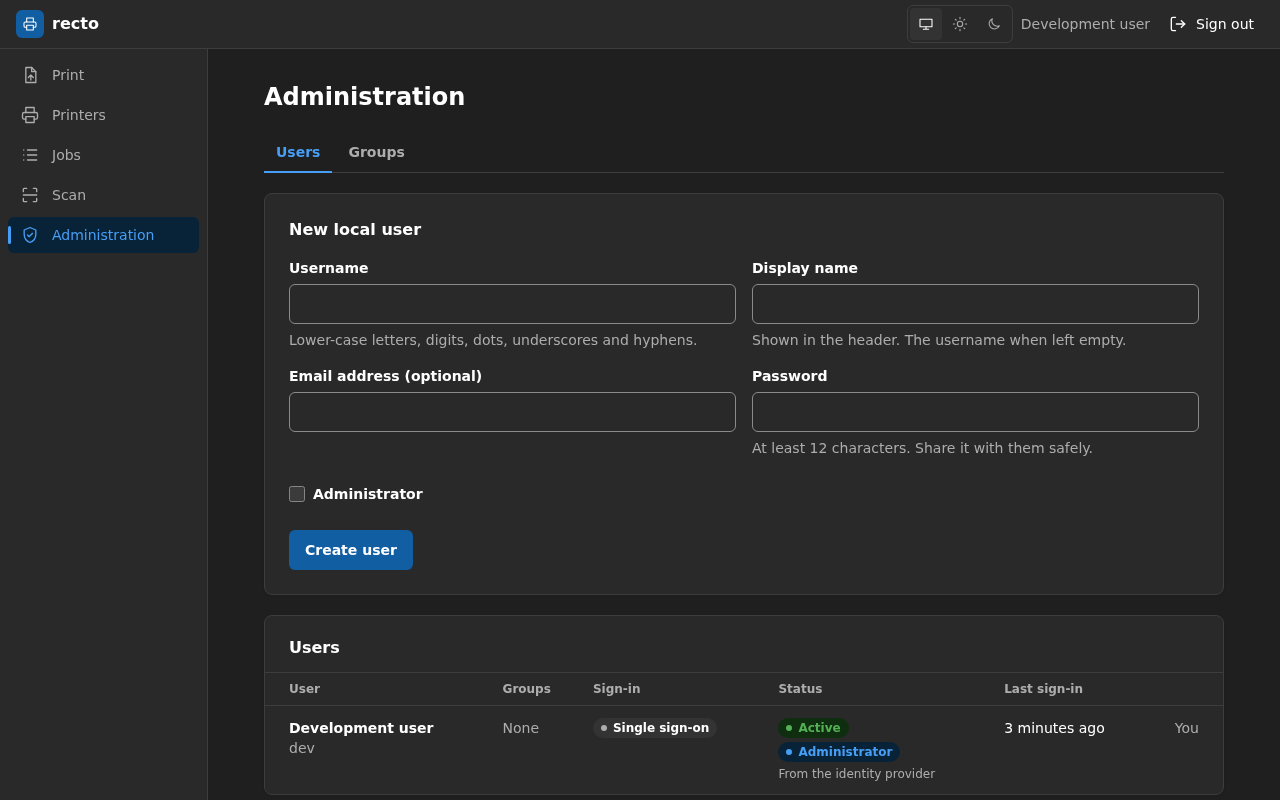
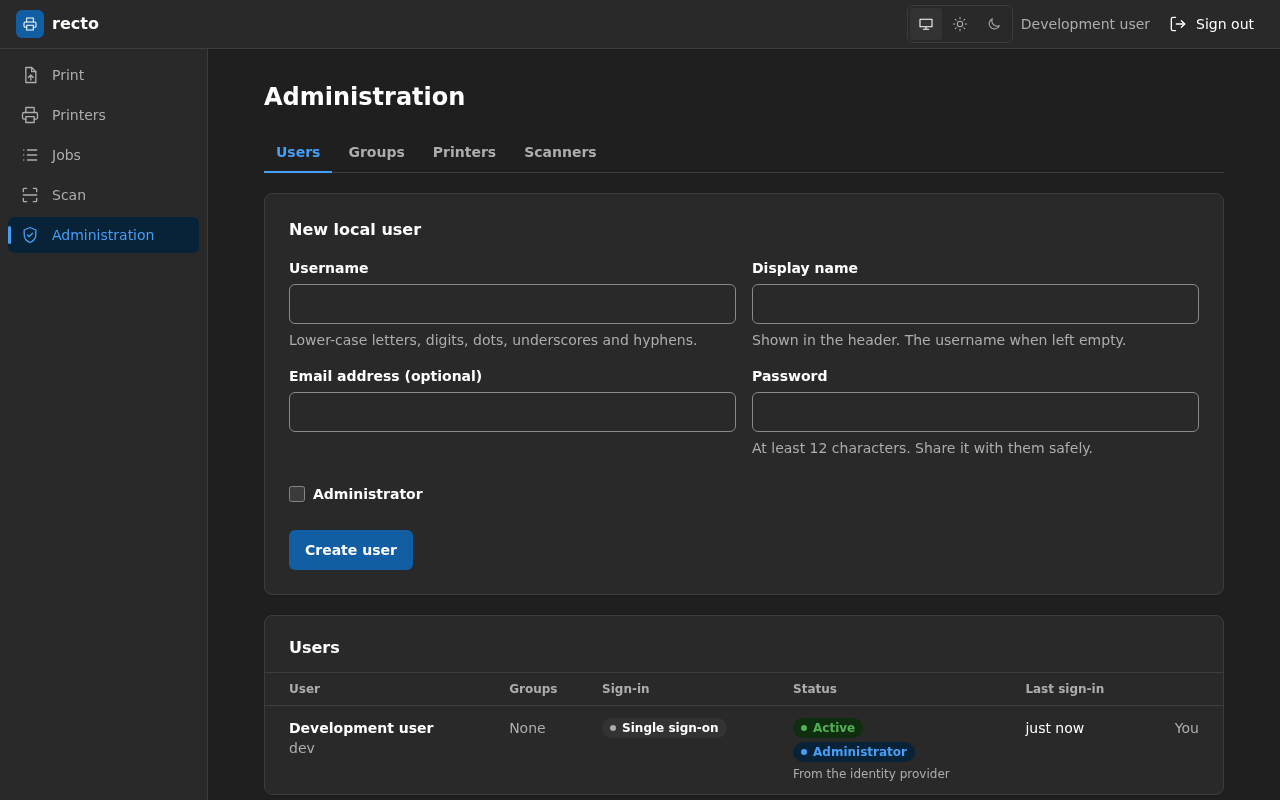
docs: describe device limits correctly and fix the proxy body limits
Several pages still said that every signed-in user can use every
device and that groups decide nothing. The accounts reference, the
introduction, the sign-in and security explanations now say that an
administrator can limit devices to groups, that jobs can be private,
and that these limits apply in recto only: anyone who reaches CUPS or
saned directly bypasses them. The guide to limiting devices adds that
local accounts belong to no group, that the Jobs page still lists every
job under RECTO_JOB_VISIBILITY=all, and that a CUPS class needs its own
rule. The endpoints reference gives the cancel and access form answers,
and the logs reference lists the new events.

recto accepts a body up to RECTO_MAX_UPLOAD_SIZE plus 64 KiB, so the
proxy examples now set their limit a little above it: 51m for nginx,
51MiB for Caddy and 53477376 bytes for Apache, whose default is 1 GiB
since 2.4.54. Traefik's entry points stop reading a request after 60
seconds, which can cut a slow upload, so the example raises that to 600
seconds. Cloudflare Tunnel appends to a client-sent X-Forwarded-For, so
the guide says to leave RECTO_TRUST_FORWARDED_HEADERS off behind it.

The Users page screenshots show the four administration tabs.

diff --git a/docs/src/how-to/reverse-proxy.md b/docs/src/how-to/reverse-proxy.md
@@ -23,7 +23,7 @@ recto must be at the root of its address: `https://recto.example.org` works,
   against them and refuses the request when they do not match `RECTO_PUBLIC_URL`.
 - Wait at least 600 seconds for a response, so long scans finish (see
   [Let long scans finish](#let-long-scans-finish)).
-- Accept request bodies up to `RECTO_MAX_UPLOAD_SIZE`, 50 MiB by default (see
+- Accept request bodies a little above `RECTO_MAX_UPLOAD_SIZE`, 50 MiB by default (see
   [Let uploads through](#let-uploads-through)).
 - Cache nothing. Pages are per user, and `/sw.js` and `/manifest.webmanifest` are sent with
   `Cache-Control: no-cache` so that browsers see a new version at once. This includes a CDN in
@@ -57,10 +57,19 @@ finished.** The scanner may still finish, but the result is lost.
 
 ## Let uploads through
 
-Files up to `RECTO_MAX_UPLOAD_SIZE` (50 MiB by default) are sent to recto in one request. nginx
-refuses bodies over 1 MiB by default: set `client_max_body_size` to at least that size. Apache
-has no limit unless `LimitRequestBody` is set. Cloudflare accepts 100 MB on its free and Pro
-plans.
+Files up to `RECTO_MAX_UPLOAD_SIZE` (50 MiB by default) are sent to recto in one request, along
+with the form's other fields. recto accepts a body up to that size plus 64 KiB, so set the
+proxy's limit a little above it, 51 MiB for the default (the examples do):
+
+- **nginx:** refuses bodies over 1 MiB by default: `client_max_body_size 51m;`.
+- **Apache:** limits bodies to 1 GiB by default since 2.4.54 (none before): `LimitRequestBody
+  53477376`.
+- **Caddy:** no limit by default; the example sets `max_size 51MiB`.
+- **HAProxy:** no limit by default.
+- **Traefik:** no limit by default, but its entry points stop reading a request after 60
+  seconds, which can cut a large upload on a slow connection: the example raises
+  `respondingTimeouts.readTimeout` to 600 seconds.
+- **Cloudflare:** accepts 100 MB on its free and Pro plans.
 
 ## Count sign-in attempts per person
 
@@ -86,6 +95,9 @@ client can send its own header with a new address at each attempt, and never be 
 - **Caddy:** replaces it by default.
 - **Traefik:** replaces it by default, unless `forwardedHeaders.trustedIPs` or `insecure` is set
   on the entry point.
+- **Cloudflare Tunnel:** appends the client's address to any `X-Forwarded-For` the client sent,
+  so a client can still pick the address recto reads. Leave `RECTO_TRUST_FORWARDED_HEADERS`
+  off behind it.
 
 Leave the setting off when recto is reachable without the proxy, such as on its published port:
 anyone could then send the header.
@@ -96,7 +108,7 @@ File: `examples/proxy/nginx/recto.conf`. Put it in `/etc/nginx/conf.d/`, get a c
 `certbot certonly --nginx -d recto.example.org`, then run `nginx -t` and reload.
 
 ```nginx
-client_max_body_size 50m;
+client_max_body_size 51m;
 proxy_request_buffering off;
 
 location / {
@@ -121,7 +133,7 @@ by itself.
 ```text
 recto.example.org {
 	request_body {
-		max_size 50MB
+		max_size 51MiB
 	}
 	reverse_proxy recto:8080 {
 		flush_interval -1
@@ -152,7 +164,9 @@ traefik.http.services.recto.loadbalancer.server.port: "8080"
 
 The override removes recto's published port (`ports: !reset []`, which needs Docker Compose 2.24
 or later), so recto is reachable only through Traefik, and it sets
-`RECTO_TRUST_FORWARDED_HEADERS`.
+`RECTO_TRUST_FORWARDED_HEADERS`. It also gives the `websecure` entry point 600 seconds to read a
+request (`--entrypoints.websecure.transport.respondingTimeouts.readTimeout=600s`), so a large
+upload on a slow connection is not cut after the default 60.
 
 ## Apache
 
@@ -160,7 +174,7 @@ File: `examples/proxy/apache/recto.conf`. Enable the modules with
 `a2enmod proxy proxy_http ssl headers rewrite`, then check with `apachectl -t`.
 
 ```apache
-LimitRequestBody 52428800
+LimitRequestBody 53477376
 ProxyPreserveHost On
 RequestHeader unset X-Forwarded-For
 RequestHeader set X-Forwarded-Proto "https"

diff --git a/docs/src/reference/endpoints.md b/docs/src/reference/endpoints.md
@@ -11,7 +11,7 @@ instead. A single sign-on user without the required claim, or disabled, is sent 
 | Path | Page |
 | --- | --- |
 | `/` | Print: the print form and the chosen printer's status. |
-| `/printers` | Printers: every printer with its state and supplies. |
+| `/printers` | Printers: every printer the user may use, with its state and supplies. |
 | `/jobs` | Jobs: the print queue, with Cancel buttons. |
 | `/scan` | Scan: scanners, options, preview and results. Needs JavaScript. |
 | `/account` | Account: change your password. Only for users with a password, and with local accounts on. |
@@ -34,7 +34,7 @@ These work without JavaScript and accept only requests from recto's own pages (s
 | Method and path | Does |
 | --- | --- |
 | `POST /print` | Sends the uploaded file to a printer, then redirects to `/jobs`. |
-| `POST /jobs/{id}/cancel` | Cancels a job, then redirects to `/jobs`. |
+| `POST /jobs/{id}/cancel` | Cancels a job, then redirects to `/jobs`. With `RECTO_JOB_VISIBILITY=own`, a job the user may not see redirects to `/jobs?error=job_not_found`, as a missing one does. |
 | `GET /scan/results/{id}` | The result of a scan, for the preview image. |
 | `GET /scan/results/{id}/download` | The scan as a file download. |
 | `POST /scan/results/{id}/save` | Saves the scan into `RECTO_SCAN_OUTPUT_DIR`. |
@@ -43,7 +43,7 @@ These work without JavaScript and accept only requests from recto's own pages (s
 | `POST /administration/users/{id}/administrator` | Grants or removes administration. |
 | `POST /administration/users/{id}/disabled` | Disables or enables a user. |
 | `POST /administration/users/{id}/password` | Sets a user's password. |
-| `POST /administration/printers/access` and `/administration/scanners/access` | Sets who may use a device. Fields: `device`, `access` (`everyone` or `groups`) and one `groups` field per group id; `groups` with none means administrators only. Redirects to the page with `?done=access`, or answers `400` with the page when the device is missing or a group is unknown. |
+| `POST /administration/printers/access` and `/administration/scanners/access` | Sets who may use a device. Fields: `device`, `access` (`everyone` or `groups`) and one `groups` field per group id; `groups` with none means administrators only. Redirects to the page with `?done=access`. Answers `400` with the page when `device` or `access` is missing or a group is unknown, and `503` when the database fails. |
 | `POST /administration/printers/forget` and `/administration/scanners/forget` | Drops the rule of a device that is gone. Field: `device`. Redirects with `?done=forgotten`. |
 
 The administration pages and their forms answer `404`, with the not-found page, to anyone but an

diff --git a/docs/src/reference/accounts.md b/docs/src/reference/accounts.md
@@ -3,7 +3,8 @@
 recto keeps its users in its [database](configuration.md#database). A user signs in with a
 **local account**, a username and a password, or through **single sign-on** with an OpenID
 Connect provider. Some users are **administrators**. Every signed-in user can use every printer
-and scanner; being an administrator only adds the administration pages.
+and scanner unless an administrator limits it to some [groups](#groups); administrators always
+can, and they also reach the administration pages.
 
 ## Local accounts
 
@@ -62,14 +63,19 @@ recto does not link them.
 
 ## Administrators
 
-Administrators reach the **Administration** pages, at `/administration/users` and
-`/administration/groups`, where they:
+Administrators reach the **Administration** pages, at `/administration/users`,
+`/administration/groups`, `/administration/printers` and `/administration/scanners`, where they:
 
 - create local accounts, administrators or not;
 - set a new password for another user who has one;
 - disable and enable other users;
 - make other users administrators, or remove their administration;
-- see the groups and their members.
+- see the groups and their members;
+- limit printers and scanners to groups (see
+  [Limit printers and scanners to groups](../how-to/restrict-access.md#limit-printers-and-scanners-to-groups)).
+
+Administrators can use every printer and scanner, whatever its rule. With private jobs
+(`RECTO_JOB_VISIBILITY=own`), they still see and cancel every job.
 
 They cannot do any of this to their own account, so the last administrator cannot lock everyone
 out from the page. For everyone else, the administration pages answer as if they did not exist.
@@ -109,9 +115,12 @@ per key. The user's memberships are replaced by the groups read, and groups seen
 time are created. Groups are never deleted, even without members.
 
 Groups are read-only in recto. The Users page lists each user's groups, and the Groups page each
-group's members. They do not change what anyone may do in recto. If the UserInfo request
-fails, memberships are left as they are; with a provider without a UserInfo endpoint, a groups
-claim missing from the token means no groups.
+group's members. Groups decide who may use a printer or a scanner that an administrator limited
+to some of them (see
+[Limit printers and scanners to groups](../how-to/restrict-access.md#limit-printers-and-scanners-to-groups)).
+Local accounts belong to no group. If the UserInfo request fails, memberships are left as they
+are; with a provider without a UserInfo endpoint, a groups claim missing from the token means no
+groups.
 
 ## Disabled users
 

diff --git a/docs/src/explanation/security.md b/docs/src/explanation/security.md
@@ -7,14 +7,19 @@ against, and how.
 
 recto is built for a household, or a small team, that trusts itself:
 
-- **Everyone signed in is equal for printing and scanning.** Anyone who passes sign-in, and the
-  required claim when one is set, can use every printer and scanner, and see and cancel every
-  print job. With `RECTO_JOB_VISIBILITY=own`, jobs are private: people see and cancel only
-  their own, and administrators see all (see
-  [Keep jobs private](../how-to/restrict-access.md#keep-jobs-private)).
-- **Administrators manage accounts, nothing more.** They create local accounts, set passwords,
-  disable users and appoint other administrators. They cannot read passwords, and they cannot
-  act on their own account from the web page.
+- **Everyone signed in is equal for printing and scanning, by default.** Anyone who passes
+  sign-in, and the required claim when one is set, can use every printer and scanner, and see
+  and cancel every print job. An administrator can limit a device to some groups, which come
+  from the provider's groups claim (see
+  [Limit printers and scanners to groups](../how-to/restrict-access.md#limit-printers-and-scanners-to-groups)).
+  With `RECTO_JOB_VISIBILITY=own`, jobs are private: people see and cancel only their own, and
+  administrators see all (see [Keep jobs private](../how-to/restrict-access.md#keep-jobs-private)).
+- **These limits apply inside recto only.** Anyone who reaches CUPS or `saned` directly, from
+  your network, bypasses them: keep those services off networks you do not trust.
+- **Administrators manage accounts and device rules.** They create local accounts, set
+  passwords, disable users, appoint other administrators and limit devices to groups. They can
+  use every device and see every job. They cannot read passwords, and they cannot act on their
+  own account from the web page.
 - **Scans are private.** A scan result can only be reached by the person who made it, and only for
   an hour. Scans saved to a folder belong to that folder's readers.
 - **Whoever runs the server is above all of them.** The command line and the database give full

diff --git a/docs/src/how-to/restrict-access.md b/docs/src/how-to/restrict-access.md
@@ -100,7 +100,8 @@ Anyone who reaches CUPS directly still sees every job there: this setting limits
 By default everyone signed in can use every printer and scanner. To limit one to some groups:
 
 1. Send groups from your provider (see [Groups](../reference/accounts.md#groups)). Groups come
-   from the provider's groups claim at each sign-in, and recto cannot edit them.
+   from the provider's groups claim at each sign-in, and recto cannot edit them. Local accounts
+   belong to no group: they cannot use a limited device unless they are administrators.
 2. Open **Administration**, then **Printers** or **Scanners**.
 3. Press **Change who may use it** on the device's row, choose **These groups**, tick the groups
    and press **Save**.
@@ -112,6 +113,11 @@ Then:
 - Administrators can always use every device.
 - Choosing **These groups** with none ticked leaves the device to administrators only.
 - Choosing **Everyone** removes the rule.
+- With `RECTO_JOB_VISIBILITY=all`, the Jobs page still lists the jobs of a printer someone
+  cannot use: the limit is on printing, not on seeing the queue.
+- A CUPS class is a device of its own. A class that holds a limited printer needs its own rule,
+  or people print to the printer through the class.
+- Anyone who reaches CUPS or SANE directly is not limited: the rules apply in recto only.
 
 Rules are kept under the device's name. When a device is removed from CUPS or SANE, its rule
 stays, and the row is marked **Not found**: if the device comes back, it is limited again. Press

diff --git a/docs/src/reference/logs.md b/docs/src/reference/logs.md
@@ -29,6 +29,7 @@ only.
 | info | `session ended: the user is gone, disabled or signed out` | `user_id` |
 | info | `document sent to the printer` | `user`, `job` |
 | info | `job canceled` | `user`, `job` |
+| info | `device access changed`, `device access forgotten` | `by`, `device` |
 | info | `scan saved` | `user`, `path` |
 | info | `shutting down` | |
 | warn | `listing the scanners failed` | `error` |
@@ -40,8 +41,15 @@ only.
 | warn | `disabled user refused` | `subject` |
 | warn | `reading the user information failed` | `error` |
 | warn | `SANE could not start; scanning is off` | `error` |
+| warn | `listing the devices for the administration page failed` | `error` |
 | error | `starting the session failed` | `error` |
 | error | `password sign-in failed`, `changing a password failed`, `changing a user failed` | `error` |
+| error | `recording the job failed` | `error`, `job` |
+| error | `reading the job records failed` | `error`, and `job` when canceling |
+| error | `updating the job records failed` | `error` |
+| error | `reading the printer access rules failed`, `reading the scanner access rules failed` | `error` |
+| error | `saving the device access failed`, `forgetting the device access failed`, `loading the device rules failed` | `error` |
+| error | `listing the users failed`, `listing the groups failed` | `error` |
 
 Commands such as `recto create-administrator` write their messages as text.
 

diff --git a/docs/src/reference/configuration.md b/docs/src/reference/configuration.md
@@ -29,7 +29,7 @@ a default, such as `RECTO_LOCAL_ACCOUNTS`, must be left out rather than empty.
 | `RECTO_MAX_UPLOAD_SIZE` | `52428800` (50 MiB) | The largest file accepted for printing, in bytes. |
 | `RECTO_LISTEN_ADDRESS` | `0.0.0.0:8080` | The address and port recto listens on. |
 | `RECTO_SITE_ROOT` | `/app/site` | The folder of the built interface. The image sets it. |
-| `RECTO_JOB_VISIBILITY` | `all` | `all` shows every print job to everyone. `own` shows people only the jobs they submitted through recto, and administrators every job: see [Restrict who can use recto](../how-to/restrict-access.md#keep-jobs-private). |
+| `RECTO_JOB_VISIBILITY` | `all` | `all` shows every print job to everyone. `own` shows people only the jobs they submitted through recto, and administrators every job: see [Keep jobs private](../how-to/restrict-access.md#keep-jobs-private). |
 | `RECTO_LOG_FORMAT` | `json` | `json` for one JSON object per line, or `text`. |
 | `RECTO_BRAND_NAME` | `recto` | The name in the header, the page titles, messages and the installed app. 1 to 64 characters once spaces around it are removed. See [Brand recto](../how-to/brand.md). |
 | `RECTO_BRAND_SHORT_NAME` | the name | The installed app's label where space is short, such as under a home screen icon. 1 to 32 characters. |

diff --git a/docs/src/introduction.md b/docs/src/introduction.md
@@ -46,9 +46,10 @@ users and sessions live in a SQLite file on a volume, or in PostgreSQL.
   [Add a printer](how-to/add-printer.md)); recto lists what CUPS has.
 - **It does not keep scans.** A scan stays available for an hour, for its owner only, then it is
   deleted. Save it to a folder to keep it.
-- **It does not separate users.** Anyone signed in can use every printer and scanner, and see and
-  cancel every print job; administrators only manage accounts. recto is built for a household,
-  or a small team, that trusts itself.
+- **It does not separate users much.** By default anyone signed in can use every printer and
+  scanner, and see and cancel every print job. Administrators can limit a device to some groups,
+  and jobs can be kept private, but these limits apply in recto only. recto is built for a
+  household, or a small team, that trusts itself.
 
 ## How this documentation is organized
 

diff --git a/docs/src/explanation/sign-in.md b/docs/src/explanation/sign-in.md
@@ -90,8 +90,8 @@ account.
 
 ## Administrators
 
-Administrators only manage accounts: everyone signed in can use every printer and scanner, as
-before recto had accounts. The first administrator comes from the command line, which only
+Administrators manage accounts and decide which groups may use each printer and scanner; by
+default, everyone signed in can use every device, as before recto had accounts. The first administrator comes from the command line, which only
 whoever runs the server can use; later ones from the Users page, or from the provider's
 administrator claim.
 
